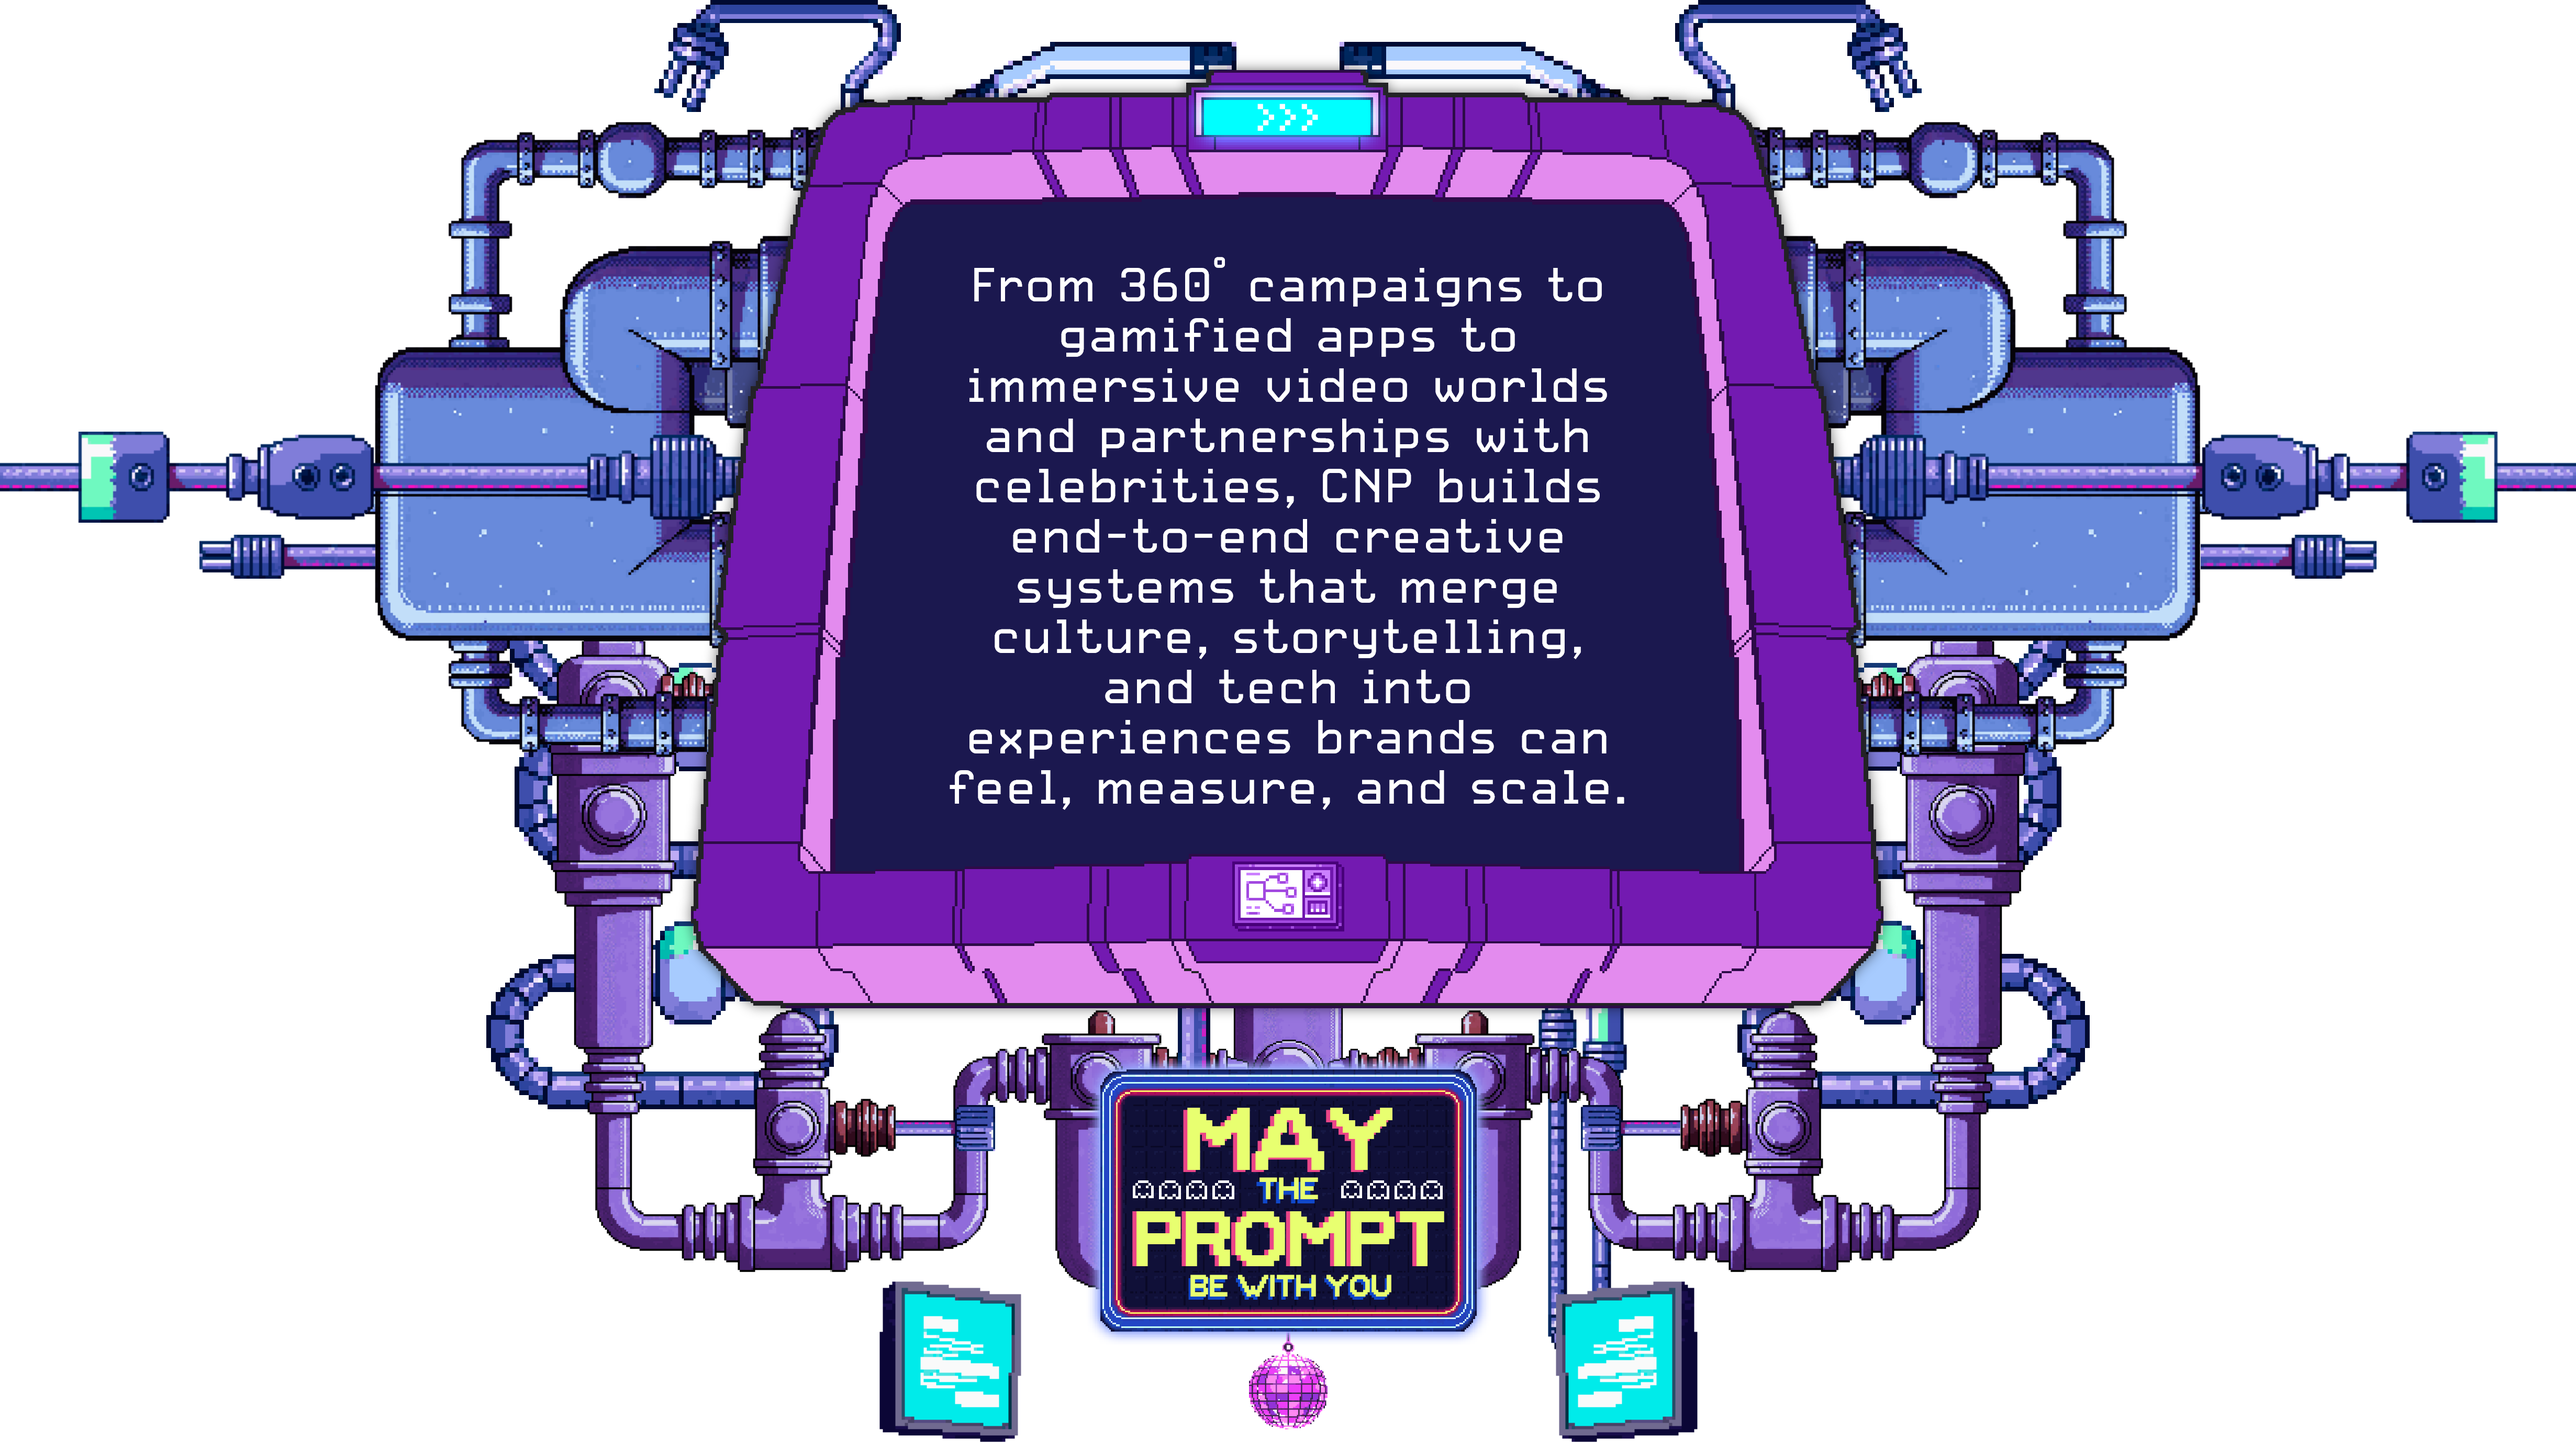
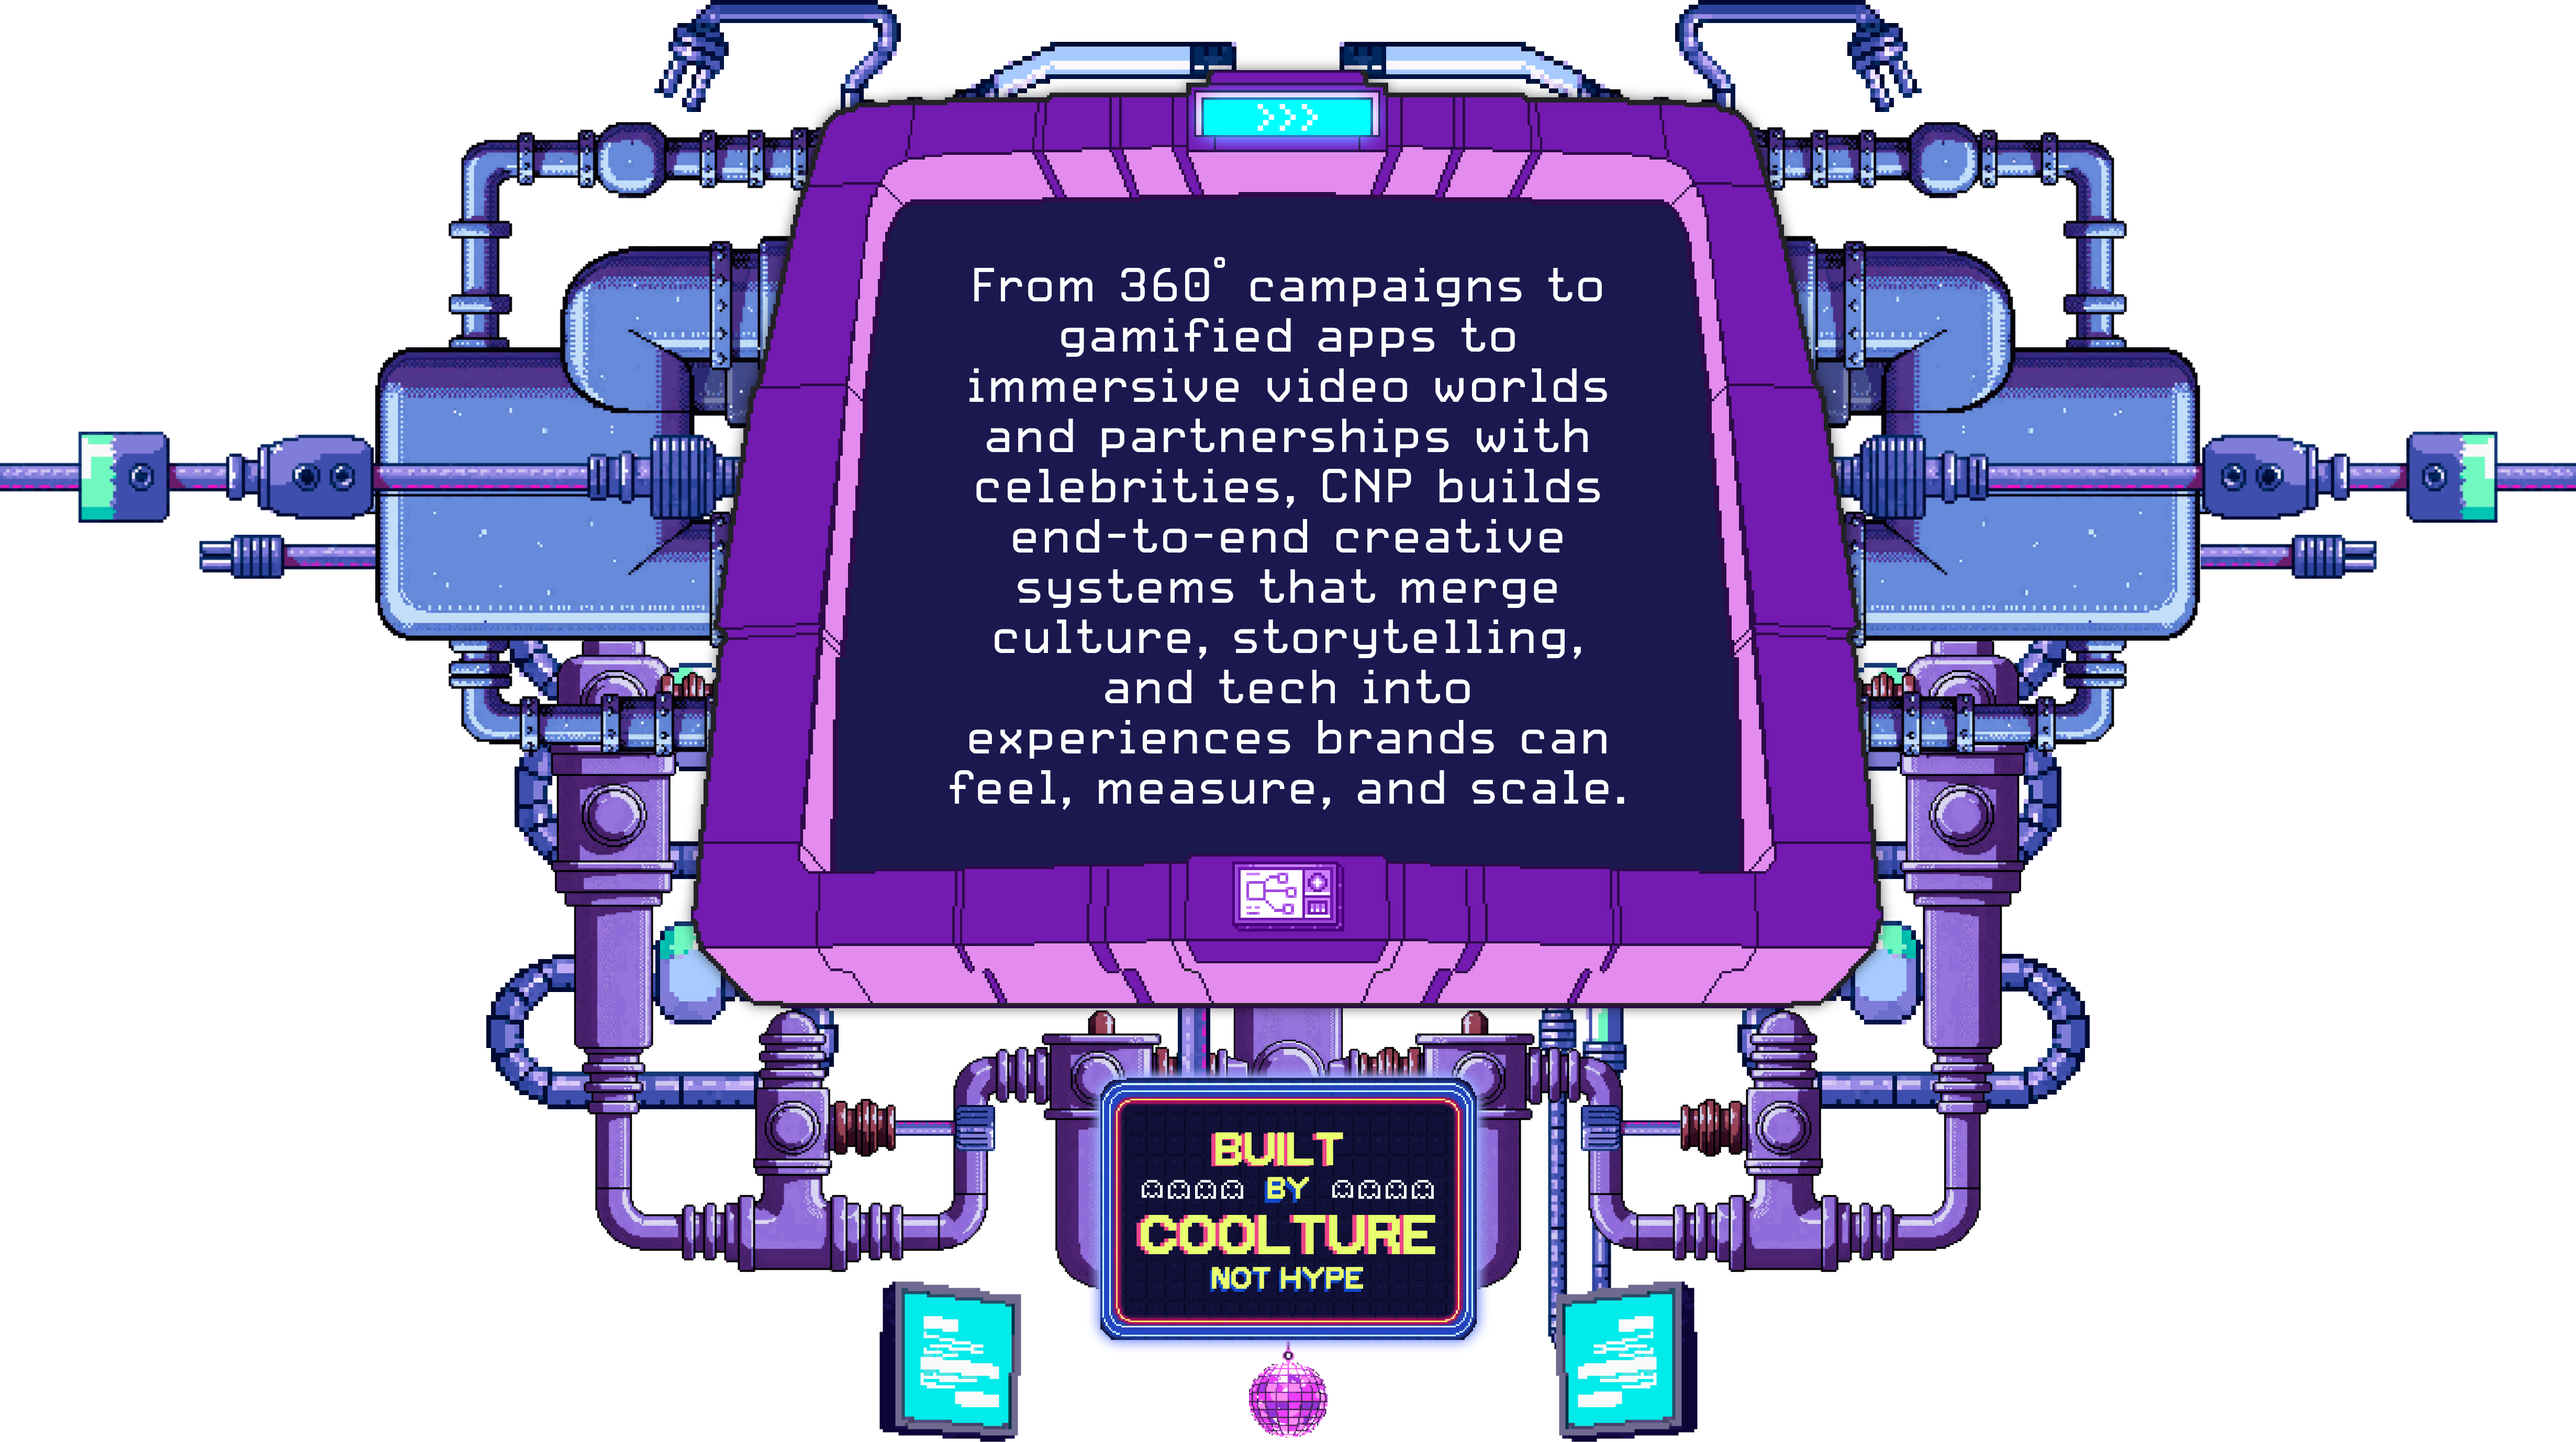
new assets

Changed region(s): [[0.4042, 0.7177, 0.5907, 0.9985]]

diff --git a/src/pages/Culture/CultureTablet.tsx b/src/pages/Culture/CultureTablet.tsx
@@ -225,8 +225,8 @@ export default function CultureMobil() {
 
         <ParallaxLayer style={{ zIndex: 4 }} offset={1.5} speed={0.3} factor={0.25}>
                     <div className="centerDiv" style={{alignItems: "flex-end", paddingRight: "10%", justifyContent: "flex-end"}}>
-                      <p className='grad1' style={{ color: 'white', fontSize: '24px' }}>Think human,</p>
-                      <p className='grad1' style={{ color: 'white', fontSize: '24px' }}> act AI native</p>
+                      <p className='grad1' style={{ color: 'white', fontSize: '24px' }}>Coolture isn’t a vibe.</p>
+                      <p className='grad1' style={{ color: 'white', fontSize: '24px' }}>It’s how we build.</p>
                     </div>
                   </ParallaxLayer>
 

diff --git a/src/pages/Culture/CultureMobil.tsx b/src/pages/Culture/CultureMobil.tsx
@@ -161,10 +161,10 @@ export default function CultureMobil() {
             style={{ alignItems: 'center', justifyContent: 'flex-end', textAlign: 'center', paddingBottom: "0%" }}
           >
             <p className="grad1" style={{ color: 'white', fontSize: '24px' }}>
-              Think human
+              Coolture isn’t a vibe.
             </p>
             <p className="grad1" style={{ color: 'white', fontSize: '24px' }}>
-              act AI native
+              It’s how we build.
             </p>
           </div>
         </ParallaxLayer>

diff --git a/src/pages/Culture/Culture.tsx b/src/pages/Culture/Culture.tsx
@@ -251,7 +251,7 @@ export default function Culture() {
             style={{ alignItems: 'center', paddingLeft: '0%', justifyContent: 'flex-end', paddingTop: '15%' }}
           >
             <p className="grad1" style={{ color: 'white' }}>
-              Think human, act AI native
+              Coolture isn’t a vibe. It’s how we build.
             </p>
           </div>
         </ParallaxLayer>
